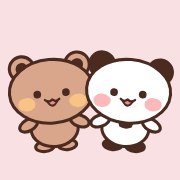
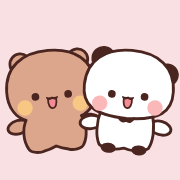
Redraw Bubu and Dudu to match the reference art
- Bubu's head and body are now one continuous silhouette (no chin line)
- Dudu's mochi-shaped head sits on a separate body with a dark collar
- Taller, rounder heads; chunkier bodies with short legs and nub arms
- Open "ω" mouth with tongue, bigger cheeks, dark inner ears on Bubu,
  Dudu's right ear lower on the side of the head
- Regenerated app icons

Claude-Session: https://claude.ai/code/session_012u5ik2zT8MebyXRT3nx7Dc

Changed region(s): [[0.0278, 0.25, 1.0, 0.8889]]

diff --git a/js/characters.js b/js/characters.js
@@ -1,14 +1,16 @@
 // Inline SVG drawings of the two characters: Bubu (brown bear) and Dudu (white panda).
-// Original drawings in the Bubu & Dudu style: chubby bodies, dot eyes, rosy cheeks,
-// thick dark-brown outlines.
+// Original drawings in the Bubu & Dudu style: a big soft mochi-shaped head, stubby body,
+// little nub arms, dot eyes, an open "ω" mouth, round cheeks and thick dark-brown outlines.
+// Bubu's head and body are one continuous shape; Dudu's head sits on top of the body
+// with a little dark collar underneath.
 
-export const INK = '#4B2A20';
-const TONGUE = '#F08A8E';
+export const INK = '#4B2520';
+const TONGUE = '#F28C92';
 const WATER = '#BFE3F5';
 
 export const CHARACTERS = {
-  bubu: { label: 'Bubu', species: 'brown bear', fur: '#D9A68C', limbs: '#D9A68C', ears: '#D9A68C', earInner: INK, cheek: '#F8C383' },
-  dudu: { label: 'Dudu', species: 'white panda', fur: '#FFFFFF', limbs: '#FFFFFF', ears: INK, earInner: null, cheek: '#FBB9B9', feet: INK, collar: true },
+  bubu: { label: 'Bubu', species: 'brown bear', fur: '#DBA68B', cheek: '#F8C784' },
+  dudu: { label: 'Dudu', species: 'white panda', fur: '#FFFFFF', cheek: '#FBB8B8' },
 };
 
 export const MOODS = {
@@ -24,46 +26,77 @@ export const MOOD_KEYS = Object.keys(MOODS);
 
 const dot = (cx, cy, r) => `<circle cx="${cx}" cy="${cy}" r="${r}" fill="${INK}"/>`;
 const shine = (cx, cy, r) => `<circle cx="${cx}" cy="${cy}" r="${r}" fill="#FFFFFF"/>`;
-const line = (d, w = 5) =>
+const line = (d, w = 4.5) =>
   `<path d="${d}" fill="none" stroke="${INK}" stroke-width="${w}" stroke-linecap="round" stroke-linejoin="round"/>`;
-const blob = (d, fill, w = 4) =>
+const blob = (d, fill, w = 3.5) =>
   `<path d="${d}" fill="${fill}" stroke="${INK}" stroke-width="${w}" stroke-linecap="round" stroke-linejoin="round"/>`;
 
+// Open mouth: a small "ω" on top of a U filled with tongue. `depth` is how far it drops.
+const openMouth = (depth) =>
+  blob(`M92 101 C91 ${101 + depth * 0.7} 95 ${101 + depth} 100 ${101 + depth} C105 ${101 + depth} 109 ${101 + depth * 0.7} 108 101 Z`, TONGUE) +
+  line('M90 100 q5 5.5 10 0 q5 5.5 10 0', 3.5);
+
+// Face features in head coordinates: eyes at (68, 96) and (132, 96), mouth below the centre.
 const FACES = {
-  happy: () =>
-    dot(72, 92, 7.5) + dot(128, 92, 7.5) +
-    blob('M90 107 q10 18 20 0', TONGUE) +
-    line('M86 104 q7 7 14 0 q7 7 14 0', 4.5),
+  happy: () => dot(68, 96, 7.5) + dot(132, 96, 7.5) + openMouth(20),
   sleepy: () =>
-    line('M63 93 q9 7 18 0') + line('M119 93 q9 7 18 0') +
-    line('M94 110 q6 4 12 0', 4.5) +
-    line('M176 70 h10 l-10 12 h10', 3.5) + line('M186 48 h8 l-8 10 h8', 3),
+    line('M60 97 q8 6 16 0') + line('M124 97 q8 6 16 0') +
+    line('M93 104 q3.5 4 7 0 q3.5 4 7 0', 3.5) +
+    line('M172 16 h9 l-9 11 h9', 3.5) + line('M186 2 h7 l-7 9 h7', 3),
   hungry: () =>
-    dot(72, 92, 8) + dot(128, 92, 8) + shine(75, 89, 2.6) + shine(131, 89, 2.6) +
-    blob('M86 102 q14 30 28 0 z', TONGUE) +
-    blob('M114 118 q9 13 0 19 q-9 -6 0 -19 z', WATER, 3),
+    dot(68, 96, 8) + dot(132, 96, 8) + shine(71, 93, 2.6) + shine(135, 93, 2.6) +
+    openMouth(27) +
+    blob('M113 116 q8 12 0 17 q-8 -5 0 -17 z', WATER, 3),
   missyou: () =>
-    dot(72, 92, 8.5) + dot(128, 92, 8.5) + shine(75, 88, 3) + shine(131, 88, 3) +
-    blob('M134 100 q10 14 0 21 q-10 -7 0 -21 z', WATER, 3) +
-    line('M88 116 q6 -7 12 0 q6 -7 12 0', 4.5),
+    dot(68, 96, 8.5) + dot(132, 96, 8.5) + shine(71, 92, 3) + shine(135, 92, 3) +
+    blob('M138 104 q9 13 0 19 q-9 -6 0 -19 z', WATER, 3) +
+    line('M90 113 q5 -5.5 10 0 q5 -5.5 10 0', 3.5),
   busy: () =>
-    line('M64 92 h16') + line('M120 92 h16') +
-    line('M92 111 h16', 4.5) +
-    blob('M170 46 q10 14 0 21 q-10 -7 0 -21 z', WATER, 3),
+    line('M60 96 h16') + line('M124 96 h16') +
+    line('M93 108 h14', 3.5) +
+    blob('M34 50 q8 12 0 17 q-8 -5 0 -17 z', WATER, 3),
   grumpy: () =>
-    dot(72, 94, 6.5) + dot(128, 94, 6.5) +
-    line('M60 78 l20 8') + line('M140 78 l-20 8') +
-    line('M88 117 q12 -11 24 0', 4.5),
+    dot(68, 98, 6.5) + dot(132, 98, 6.5) +
+    line('M54 82 l20 7') + line('M146 82 l-20 7') +
+    line('M90 114 q10 -9 20 0', 3.5),
 };
 
-function head(c) {
-  const ears = c.earInner
-    ? `<circle cx="46" cy="40" r="24" fill="${c.ears}"/><circle cx="154" cy="40" r="24" fill="${c.ears}"/>`
-    : `<circle cx="44" cy="40" r="24" fill="${c.ears}"/><circle cx="158" cy="46" r="24" fill="${c.ears}"/>`;
-  const inner = c.earInner
-    ? `<circle cx="46" cy="40" r="12" fill="${c.earInner}" stroke="none"/><circle cx="154" cy="40" r="12" fill="${c.earInner}" stroke="none"/>`
-    : '';
-  return { ears, inner, skull: `<ellipse cx="100" cy="88" rx="82" ry="62" fill="${c.fur}"/>` };
+const cheeks = (c) =>
+  `<circle cx="46" cy="116" r="15" fill="${c.cheek}"/><circle cx="154" cy="116" r="15" fill="${c.cheek}"/>`;
+
+// The top and sides of the head, shared by both characters.
+const HEAD_TOP = 'M100 8 C152 8 186 34 187 82';
+const headShape = (fill) =>
+  `<path fill="${fill}" d="${HEAD_TOP} C188 120 166 140 100 141 C34 140 12 120 13 82 C14 34 48 8 100 8 Z"/>`;
+
+function bubuParts(c) {
+  const ears =
+    `<circle cx="44" cy="30" r="20" fill="${c.fur}"/><circle cx="156" cy="30" r="20" fill="${c.fur}"/>` +
+    `<circle cx="46" cy="33" r="12.5" fill="${INK}" stroke="none"/><circle cx="154" cy="33" r="12.5" fill="${INK}" stroke="none"/>`;
+  const arms =
+    `<ellipse cx="30" cy="152" rx="21" ry="13" fill="${c.fur}" transform="rotate(-12 30 152)"/>` +
+    `<ellipse cx="170" cy="152" rx="21" ry="13" fill="${c.fur}" transform="rotate(12 170 152)"/>`;
+  // One silhouette: head, then down the body to two little feet and back up, no chin line.
+  const silhouette =
+    `<path fill="${c.fur}" d="${HEAD_TOP} C188 114 172 134 154 140 ` +
+    'C164 158 162 182 154 196 C150 205 132 206 124 203 C114 201 106 198 100 195 ' +
+    'C94 198 86 201 76 203 C68 206 50 205 46 196 C38 182 36 158 46 140 ' +
+    'C28 134 12 114 13 82 C14 34 48 8 100 8 Z"/>';
+  return { ears, body: arms + silhouette, head: headShape(c.fur), collar: '' };
+}
+
+function duduParts(c) {
+  const ears = `<circle cx="46" cy="28" r="21" fill="${INK}"/><circle cx="172" cy="50" r="20" fill="${INK}"/>`;
+  const arms =
+    `<ellipse cx="32" cy="154" rx="21" ry="13" fill="${c.fur}" transform="rotate(-12 32 154)"/>` +
+    `<ellipse cx="168" cy="154" rx="21" ry="13" fill="${c.fur}" transform="rotate(12 168 154)"/>`;
+  const torso =
+    `<path fill="${c.fur}" d="M50 128 C42 156 44 182 52 196 C64 205 86 204 100 199 C114 204 136 205 148 196 C156 182 158 156 150 128 Z"/>`;
+  const feet =
+    `<ellipse cx="70" cy="201" rx="12" ry="7" fill="${INK}"/><ellipse cx="130" cy="201" rx="12" ry="7" fill="${INK}"/>`;
+  // Little dark bow just under the chin.
+  const collar = `<path d="M84 139 Q90 152 100 146 Q110 152 116 139 Q100 145 84 139 Z" fill="${INK}" stroke="${INK}" stroke-width="3" stroke-linejoin="round"/>`;
+  return { ears, body: arms + torso + feet + headShape(c.fur), head: headShape(c.fur), collar };
 }
 
 /**
@@ -74,27 +107,15 @@ function head(c) {
  */
 export function characterSVG(kind, mood = 'happy', opts = {}) {
   const c = CHARACTERS[kind] ?? CHARACTERS.bubu;
+  const parts = (kind === 'dudu' ? duduParts : bubuParts)(c);
   const face = (FACES[mood] ?? FACES.happy)();
-  const h = head(c);
-  const stroke = `stroke="${INK}" stroke-width="6" stroke-linejoin="round" stroke-linecap="round"`;
-  const cheeks = `<ellipse cx="50" cy="110" rx="17" ry="13" fill="${c.cheek}"/><ellipse cx="150" cy="110" rx="17" ry="13" fill="${c.cheek}"/>`;
+  const stroke = `stroke="${INK}" stroke-width="5.5" stroke-linejoin="round" stroke-linecap="round"`;
   const a11y = opts.label
     ? `role="img" aria-label="${opts.label.replace(/"/g, '&quot;')}"`
     : 'aria-hidden="true" focusable="false"';
 
   if (opts.faceOnly) {
-    return `<svg viewBox="10 0 190 158" ${a11y}><g ${stroke}>${h.ears}${h.inner}${h.skull}</g>${cheeks}${face}</svg>`;
+    return `<svg viewBox="4 -2 196 150" ${a11y}><g ${stroke}>${parts.ears}${parts.head}</g>${cheeks(c)}${face}</svg>`;
   }
-
-  const feet = c.feet ?? c.limbs;
-  const body =
-    `<ellipse cx="78" cy="194" rx="18" ry="10" fill="${feet}"/>` +
-    `<ellipse cx="122" cy="194" rx="18" ry="10" fill="${feet}"/>` +
-    `<ellipse cx="100" cy="160" rx="46" ry="36" fill="${c.fur}"/>` +
-    `<ellipse cx="50" cy="150" rx="19" ry="11" fill="${c.limbs}" transform="rotate(-25 50 150)"/>` +
-    `<ellipse cx="150" cy="150" rx="19" ry="11" fill="${c.limbs}" transform="rotate(25 150 150)"/>`;
-  const collar = c.collar
-    ? `<path d="M84 146 q16 10 32 0 l-4 12 q-12 6 -24 0 z" fill="${INK}"/>`
-    : '';
-  return `<svg viewBox="0 0 200 210" ${a11y}><g ${stroke}>${h.ears}${h.inner}${body}${h.skull}</g>${collar}${cheeks}${face}</svg>`;
+  return `<svg viewBox="0 0 200 210" ${a11y}><g ${stroke}>${parts.ears}${parts.body}</g>${parts.collar}${cheeks(c)}${face}</svg>`;
 }
